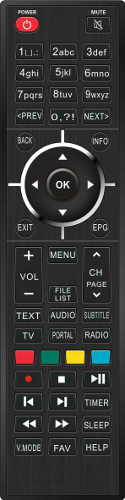
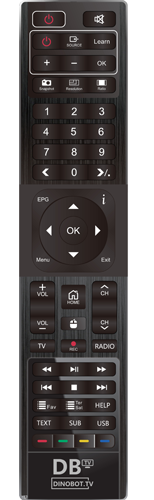
update dinobot rcu

diff --git a/BoxBranding/remotes/dinobot/remote.html b/BoxBranding/remotes/dinobot/remote.html
@@ -1,56 +1,39 @@
 <img border='0' src='static/remotes/dinobot/rc.png' usemap='#map' >
 <map name="map">
-	<area shape="rect" coords="14,16,39,32" alt="Power" onclick="pressMenuRemote('116');">
-	<area shape="rect" coords="86,16,112,35" alt="mute" onclick="pressMenuRemote('113');">
-	<area shape="rect" coords="14,369,43,388" alt="record" onclick="pressMenuRemote('167');">
-	<area shape="rect" coords="83,370,112,388" alt="play/pause" onclick="pressMenuRemote('164');">
-	<area shape="rect" coords="14,392,43,410" alt="rrw" onclick="pressMenuRemote('165');">
-	<area shape="rect" coords="48,392,78,410" alt="ffw" onclick="pressMenuRemote('163');">
-	<area shape="rect" coords="33,392,112,410" alt="Timer" onclick="pressMenuRemote('359');">
-	<area shape="rect" coords="48,370,77,388" alt="stop" onclick="pressMenuRemote('128');">
-	<area shape="rect" coords="14,415,43,433" alt="rewind" onclick="pressMenuRemote('168');">
-	<area shape="rect" coords="48,415,77,433" alt="forward" onclick="pressMenuRemote('208');">
-	<area shape="rect" coords="83,307,112,322" alt="subtitle" onclick="pressMenuRemote('370');">
-	<area shape="rect" coords="14,438,43,455" alt="Video" onclick="pressMenuRemote('227');">
-	<area shape="rect" coords="48,308,77,322" alt="Audio" onclick="pressMenuRemote('392');">
-	<area shape="rect" coords="14,307,43,322" alt="Teletext" onclick="pressMenuRemote('388');">
-	<area shape="rect" coords="48,438,76,455" alt="Favoriten" onclick="pressMenuRemote('388');">
-	<area shape="rect" coords="14,328,43,344" alt="TV" onclick="pressMenuRemote('377');">
-	<area shape="rect" coords="83,328,111,344 alt="Radio" onclick="pressMenuRemote('385');">
-	<area shape="rect" coords="46,168,75,199" alt="OK" onclick="pressMenuRemote('352');">
-	<area shape="rect" coords="48,286,78,303" alt="PVR" onclick="pressMenuRemote('393');">
-	<area shape="rect" coords="91,131,110,150" alt="info" onclick="pressMenuRemote('358');">
-	<area shape="rect" coords="89,219,110,237" alt="EPG" onclick="pressMenuRemote('365');">
-	<area shape="rect" coords="48,247,78,264" alt="Menu" onclick="pressMenuRemote('139');">
-	<area shape="rect" coords="15,218,36,238" alt="exit" onclick="pressMenuRemote('174');">
-	<area shape="rect" coords="15,133,34,151" alt="back" onclick="pressMenuRemote('412');">
-	<area shape="rect" coords="50,149,76,163" alt="up" onclick="pressMenuRemote('103');">
-	<area shape="rect" coords="80,170,100,199" alt="right" onclick="pressMenuRemote('106');">
-	<area shape="rect" coords="50,202,82,246" alt="down" onclick="pressMenuRemote('108');">
-	<area shape="rect" coords="19,162,46,199" alt="left" onclick="pressMenuRemote('105');">
-	<area shape="rect" coords="13,246,41,268" alt="volume up" onclick="pressMenuRemote('115');">
-	<area shape="rect" coords="13,279,42,303" alt="volume down" onclick="pressMenuRemote('114');">
-	<area shape="rect" coords="83,246,111,268" alt="channel up" onclick="pressMenuRemote('402');">
-	<area shape="rect" coords="83,280,111,304" alt="channel down" onclick="pressMenuRemote('403');">
-	<area shape="rect" coords="64,405,88,418" alt="HDMI IN" onclick="pressMenuRemote('438');">
-	<area shape="rect" coords="92,387,115,400" alt="User" onclick="pressMenuRemote('138');">
-	<area shape="rect" coords="47,327,78,344" alt="F1" onclick="pressMenuRemote('59');">
-	<area shape="rect" coords="82,437,112,456" alt="F2" onclick="pressMenuRemote('60');">
-	<area shape="rect" coords="82,414,112,433" alt="F3" onclick="pressMenuRemote('395');">
-	<area shape="rect" coords="15,42,45,60" alt="1" onclick="pressMenuRemote('2');">
-	<area shape="rect" coords="49,42,78,60" alt="2" onclick="pressMenuRemote('3');">
-	<area shape="rect" coords="82,42,111,60" alt="3" onclick="pressMenuRemote('4');">
-	<area shape="rect" coords="15,64,45,82" alt="4" onclick="pressMenuRemote('5');">
-	<area shape="rect" coords="49,64,78,82" alt="5" onclick="pressMenuRemote('6');">
-	<area shape="rect" coords="82,64,111,82" alt="6" onclick="pressMenuRemote('7');">
-	<area shape="rect" coords="15,86,45,103" alt="7" onclick="pressMenuRemote('8');">
-	<area shape="rect" coords="49,86,78,103" alt="8" onclick="pressMenuRemote('9');">
-	<area shape="rect" coords="82,86,111,103" alt="9" onclick="pressMenuRemote('10');">
-	<area shape="rect" coords="15,108,45,124" alt="previous" onclick="pressMenuRemote('412');">
-	<area shape="rect" coords="49,108,78,124" alt="0" onclick="pressMenuRemote('11');">
-	<area shape="rect" coords="82,108,111,124" alt="next" onclick="pressMenuRemote('407');">
-	<area shape="rect" coords="13,348,36,366" alt="red" onclick="pressMenuRemote('398');">
-	<area shape="rect" coords="40,348,60,366" alt="green" onclick="pressMenuRemote('399');">
-	<area shape="rect" coords="64,348,86,366" alt="yellow" onclick="pressMenuRemote('400');">
-	<area shape="rect" coords="89,348,112,366" alt="blue" onclick="pressMenuRemote('401');">
-</map
+	<area shape="circle" coords="41,345,9" alt="tv" onclick="pressMenuRemote('377');">
+	<area shape="circle" coords="105,343,9" alt="radio" onclick="pressMenuRemote('385');">
+	<area shape="circle" coords="44,423,9" alt="text" onclick="pressMenuRemote('388');">
+	<area shape="circle" coords="103,404,9" alt="help" onclick="pressMenuRemote('138');">
+	<area shape="circle" coords="101,84,9" alt="video" onclick="pressMenuRemote('393');">
+	<area shape="circle" coords="74,298,9" alt="audio" onclick="pressMenuRemote('392');">
+	<area shape="circle" coords="100,18,9" alt="mute" onclick="pressMenuRemote('113');">
+	<area shape="circle" coords="105,259,9" alt="exit" onclick="pressMenuRemote('174');">
+	<area shape="circle" coords="46,171,9" alt="next" onclick="pressMenuRemote('407');">
+	<area shape="circle" coords="74,171,9" alt="0" onclick="pressMenuRemote('11');">
+	<area shape="circle" coords="101,171,9" alt="previous" onclick="pressMenuRemote('412');">
+	<area shape="circle" coords="101,152,9" alt="9" onclick="pressMenuRemote('10');">
+	<area shape="circle" coords="74,152,9" alt="8" onclick="pressMenuRemote('9');">
+	<area shape="circle" coords="46,152,9" alt="7" onclick="pressMenuRemote('8');">
+	<area shape="circle" coords="101,131,9" alt="6" onclick="pressMenuRemote('7');">
+	<area shape="circle" coords="74,131,9" alt="5" onclick="pressMenuRemote('6');">
+	<area shape="circle" coords="46,131,9" alt="4" onclick="pressMenuRemote('5');">
+	<area shape="circle" coords="101,111,9" alt="3" onclick="pressMenuRemote('4');">
+	<area shape="circle" coords="74,111,9" alt="2" onclick="pressMenuRemote('3');">
+	<area shape="circle" coords="46,111,9" alt="1" onclick="pressMenuRemote('2');">
+	<area shape="circle" coords="105,440,9" alt="blue" onclick="pressMenuRemote('401');">
+	<area shape="circle" coords="84,440,9" alt="yellow" onclick="pressMenuRemote('400');">
+	<area shape="circle" coords="63,440,9" alt="green" onclick="pressMenuRemote('399');">
+	<area shape="circle" coords="43,440,9" alt="red" onclick="pressMenuRemote('398');">
+	<area shape="circle" coords="48,19,9" alt="power" onclick="pressMenuRemote('116');">
+	<area shape="circle" coords="74,207,10" alt="up" onclick="pressMenuRemote('103');">
+	<area shape="circle" coords="74,255,10" alt="down" onclick="pressMenuRemote('108');">
+	<area shape="circle" coords="97,230,10" alt="right" onclick="pressMenuRemote('106');">
+	<area shape="circle" coords="49,230,10" alt="left" onclick="pressMenuRemote('105');">
+	<area shape="circle" coords="74,230,12" alt="ok" onclick="pressMenuRemote('352');">
+	<area shape="circle" coords="104,324,9" alt="bouquet down" onclick="pressMenuRemote('403');">
+	<area shape="circle" coords="104,289,9" alt="bouquet up" onclick="pressMenuRemote('402');">
+	<area shape="circle" coords="42,325,9" alt="volume down" onclick="pressMenuRemote('114');">
+	<area shape="circle" coords="42,290,9" alt="volume up" onclick="pressMenuRemote('115');">
+	<area shape="circle" coords="42,259,9" alt="menu" onclick="pressMenuRemote('139');">
+	<area shape="circle" coords="105,199,9" alt="info" onclick="pressMenuRemote('358');">
+</map>
